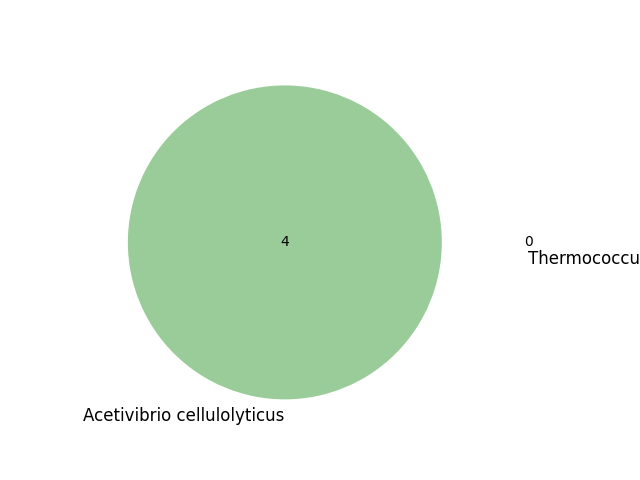
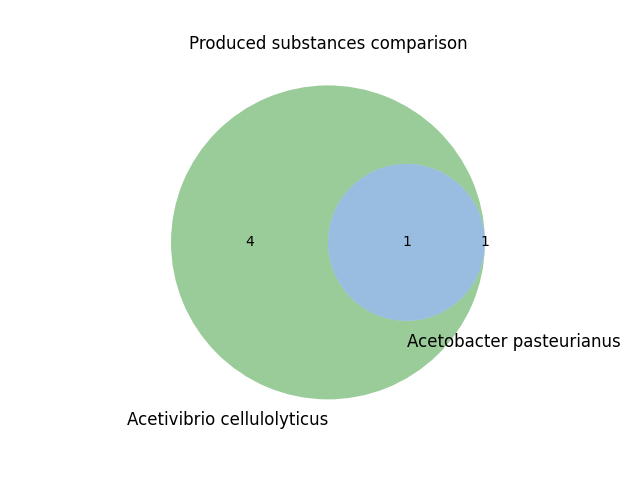
third commit

diff --git a/mybiotix.py b/mybiotix.py
@@ -53,9 +53,11 @@ class Parameters:
         Returns:
              None.
         """
+
         for line in f:
+
             if org_name in line and (
-                    "Production (export)" in line or "production (export)" in line
+                    "Production" in line or "production" in line
             ):
                 line_of_bac1 = line
                 export_material = line_of_bac1.split()[0]
@@ -64,6 +66,10 @@ class Parameters:
                 attributes_lis.append(
                     export_material
                 )
+        if org_name not in f.read():
+            print(org_name)
+            print("Organism not found")
+
 
     def venn_creator(self, first_lis: list, second_lis: list) -> None:
         """Creates a venn diagram that shows what substances each organism produce
@@ -86,6 +92,7 @@ class Parameters:
         # changing the labels
         v.get_label_by_id('100').set_text(str(len(first_lis)))
         v.get_label_by_id('010').set_text(str(len(second_lis)))
+        plt.title("Produced substances comparison")
         matplotlib.pyplot.savefig('Bacterias.png')
         plt.show()
 
